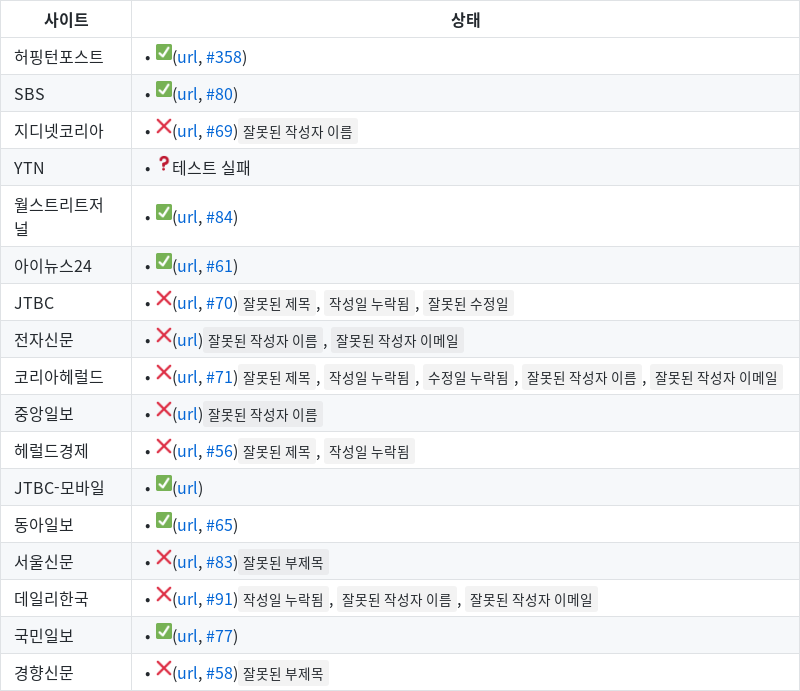
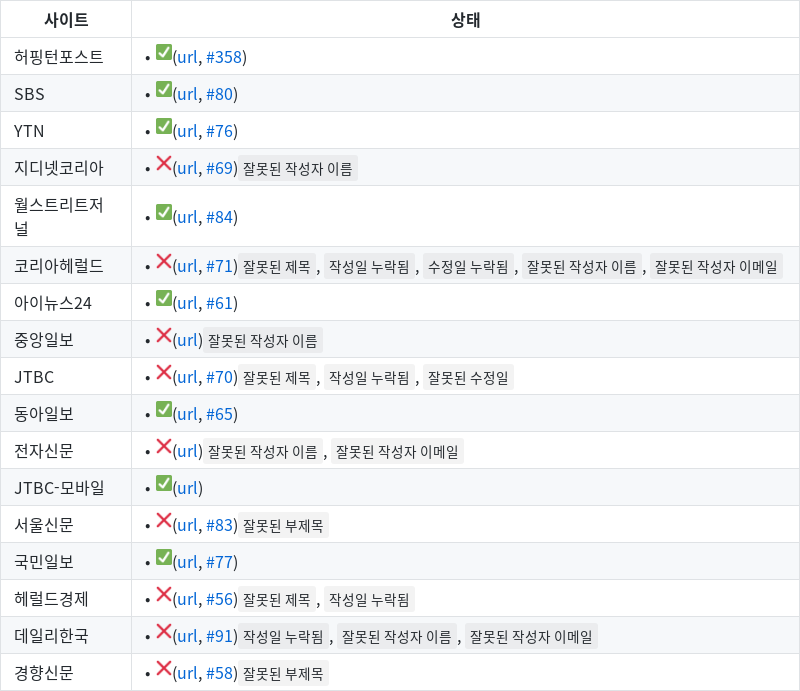
Mon Jun  8 00:23:45 UTC 2020

diff --git a/health-check.md b/health-check.md
@@ -2,18 +2,18 @@
 |------|-------|
 | 허핑턴포스트 | • ✅([url](https://www.huffingtonpost.kr/entry/story_kr_5d36a558e4b004b6adb5029c?9e4), [#358](https://github.com/disjukr/just-news/issues/#358)) |
 | SBS | • ✅([url](https://news.sbs.co.kr/news/endPage.do?news_id=N1002697236), [#80](https://github.com/disjukr/just-news/issues/#80)) |
+| YTN | • ✅([url](https://www.ytn.co.kr/_ln/0103_201411190800481989), [#76](https://github.com/disjukr/just-news/issues/#76)) |
 | 지디넷코리아 | • ❌([url](http://www.zdnet.co.kr/view/?no=20141104074223), [#69](https://github.com/disjukr/just-news/issues/#69))`잘못된 작성자 이름` |
-| YTN | • ❓테스트 실패 |
 | 월스트리트저널 | • ✅([url](https://realtime.wsj.com/korea/2014/10/13/%EB%B0%95%EC%9B%90%EC%88%9C-%EC%84%9C%EC%9A%B8%EC%8B%9C%EC%9E%A5-%EB%AF%B8%EA%B5%AD-%EC%96%B8%EB%A1%A0%EC%97%90-%EB%8F%99%EC%84%B1%EA%B2%B0%ED%98%BC-%EC%A7%80%EC%A7%80-%EB%B0%9C%EC%96%B8/), [#84](https://github.com/disjukr/just-news/issues/#84)) |
-| 아이뉴스24 | • ✅([url](http://www.inews24.com/view/860573), [#61](https://github.com/disjukr/just-news/issues/#61)) |
-| JTBC | • ❌([url](http://news.jtbc.joins.com/article/article.aspx?news_id=NB10639468), [#70](https://github.com/disjukr/just-news/issues/#70))`잘못된 제목`, `작성일 누락됨`, `잘못된 수정일` |
-| 전자신문 | • ❌([url](http://www.etnews.com/20191031000370?mc=ns_003_00006))`잘못된 작성자 이름`, `잘못된 작성자 이메일` |
 | 코리아헤럴드 | • ❌([url](http://khnews.kheraldm.com/view.php?ud=20141111001137&md=20141111180830_BK&kr=1), [#71](https://github.com/disjukr/just-news/issues/#71))`잘못된 제목`, `작성일 누락됨`, `수정일 누락됨`, `잘못된 작성자 이름`, `잘못된 작성자 이메일` |
+| 아이뉴스24 | • ✅([url](http://www.inews24.com/view/860573), [#61](https://github.com/disjukr/just-news/issues/#61)) |
 | 중앙일보 | • ❌([url](https://news.joins.com/article/23621286))`잘못된 작성자 이름` |
-| 헤럴드경제 | • ❌([url](http://news.heraldcorp.com/view.php?ud=20141023000202&md=20141023091209_BK), [#56](https://github.com/disjukr/just-news/issues/#56))`잘못된 제목`, `작성일 누락됨` |
-| JTBC-모바일 | • ✅([url](http://mnews.jtbc.joins.com/News/Article.aspx?news_id=NB11866214)) |
+| JTBC | • ❌([url](http://news.jtbc.joins.com/article/article.aspx?news_id=NB10639468), [#70](https://github.com/disjukr/just-news/issues/#70))`잘못된 제목`, `작성일 누락됨`, `잘못된 수정일` |
 | 동아일보 | • ✅([url](http://news.donga.com/3/03/20141107/67723014/1), [#65](https://github.com/disjukr/just-news/issues/#65)) |
+| 전자신문 | • ❌([url](http://www.etnews.com/20191031000370?mc=ns_003_00006))`잘못된 작성자 이름`, `잘못된 작성자 이메일` |
+| JTBC-모바일 | • ✅([url](http://mnews.jtbc.joins.com/News/Article.aspx?news_id=NB11866214)) |
 | 서울신문 | • ❌([url](http://seoul.co.kr/news/newsView.php?id=20141204500025), [#83](https://github.com/disjukr/just-news/issues/#83))`잘못된 부제목` |
-| 데일리한국 | • ❌([url](http://daily.hankooki.com/lpage/politics/201412/dh20141219103740137430.htm), [#91](https://github.com/disjukr/just-news/issues/#91))`작성일 누락됨`, `잘못된 작성자 이름`, `잘못된 작성자 이메일` |
 | 국민일보 | • ✅([url](http://news.kmib.co.kr/article/view.asp?arcid=0008864720&code=61121111), [#77](https://github.com/disjukr/just-news/issues/#77)) |
+| 헤럴드경제 | • ❌([url](http://news.heraldcorp.com/view.php?ud=20141023000202&md=20141023091209_BK), [#56](https://github.com/disjukr/just-news/issues/#56))`잘못된 제목`, `작성일 누락됨` |
+| 데일리한국 | • ❌([url](http://daily.hankooki.com/lpage/politics/201412/dh20141219103740137430.htm), [#91](https://github.com/disjukr/just-news/issues/#91))`작성일 누락됨`, `잘못된 작성자 이름`, `잘못된 작성자 이메일` |
 | 경향신문 | • ❌([url](http://biz.khan.co.kr/khan_art_view.html?artid=201410311921301&code=920100&med=khan), [#58](https://github.com/disjukr/just-news/issues/#58))`잘못된 부제목` |
